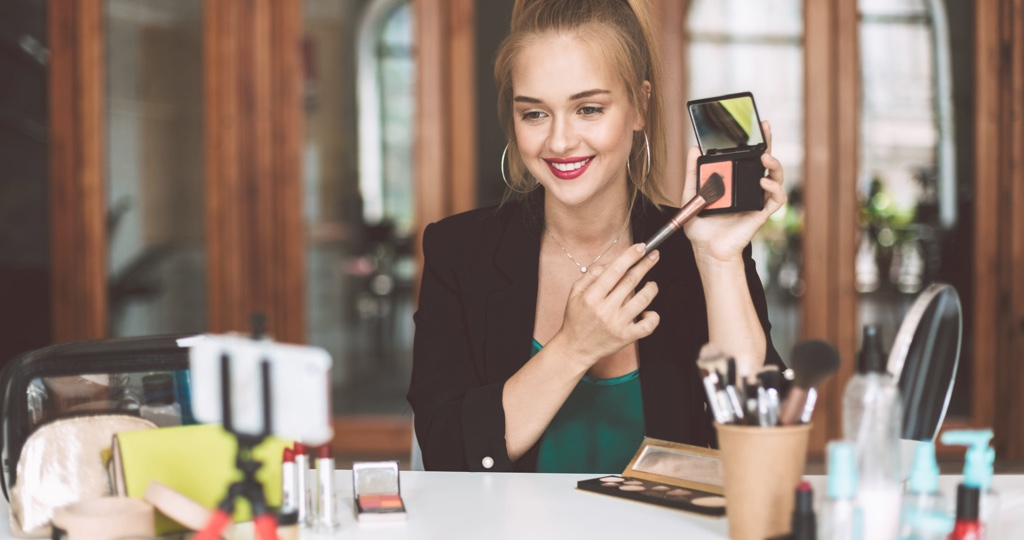
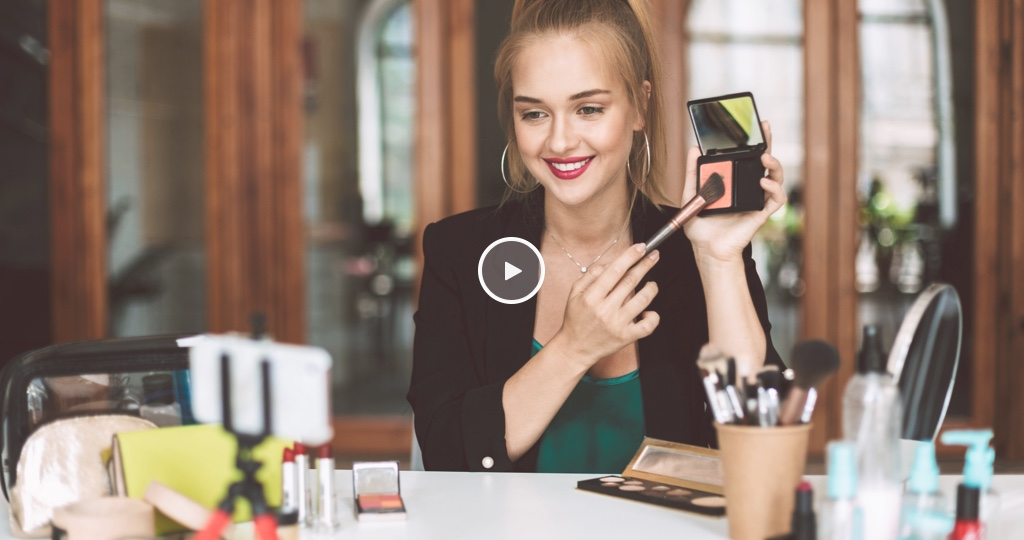
Added home page

Changed region(s): [[0.4688, 0.4444, 0.5312, 0.563]]

diff --git a/pages/index.js b/pages/index.js
@@ -5,13 +5,17 @@ import withLayout from '../lib/withLayout';
 import Screen01 from '../static/img/screen01.png'
 import Screen02 from '../static/img/screen02.png'
 import Screen03 from '../static/img/screen03.png'
+import ScreenHome from '../static/img/home.jpg'
 import Carousel from '../components/dataDisplay/others/carousel';
 import ContactUs from '../components/page/public/contactUs'
+import Btn from '../components/elements/btn'
 
 const styles = {
 	cardContainer: {
 		padding: '5rem 0',
-		// marginBottom: '3rem'
+	},
+	marginBottom: {
+		marginBottom: '3rem'
 	},
 	padding: {
 		padding: '1rem 2rem',
@@ -46,10 +50,24 @@ const styles = {
 		bottom: 0
 	},
 	testimonialTitle: {
-		fontSize: '2rem'
+		fontSize: '2rem',
+		marginBottom: '2rem'
 	},
 	carouselImg: {
 		width: '100%'
+	},
+	hover: {
+		position: 'absolute',
+		top: 0,
+		left: 0,
+		height: '100%'
+	},
+	homeTextContainer: {
+		transform: 'translateY(-50%)',
+		lineHeight: '2rem'
+	},
+	carousel: {
+		padding: '2rem 0 3.5rem'
 	}
 }
 
@@ -59,9 +77,22 @@ const Index = () => {
 
 	return (
 		<div>
+			<div style={styles.marginBottom}>
+				<Grid container item className='relative'>
+					<img src={ScreenHome} className='fullwidth' />
+					<Grid item container xs={12} sm={5} justify="center" alignItems="center" style={styles.hover}>
+						<Grid item xs={12} sm={12} className='text-center' style={styles.homeTextContainer}>
+							<h1 className='white-color'>Tirez le meilleur de l’influence marketing grâce à la vidéo</h1>
+							<Btn text="Démarrez" />
+						</Grid>
+					</Grid>
+				</Grid>
+			</div>
+			{/*  */}
 			<div className='text-center'>
-				<div className='home-block-padding' style={styles.padding}>
+				<div style={styles.padding}>
 					<h2 className='text-center'>Comment rendons-nous l’influence marketing scalable ?</h2>
+
 					<Grid container item style={styles.cardContainer}>
 						<Grid item xs={12} sm={6}>
 							<img src={Screen01} />
@@ -84,7 +115,7 @@ const Index = () => {
 			<div className='text-center'>
 				<Grid container item style={styles.cardContainer} className='light-gray-bg'>
 					<Grid item container xs={12} sm={6} justify="center" alignItems="center">
-						<Grid item container xs={12} sm={8} className='text-center'>
+						<Grid item xs={12} sm={8} className='text-center'>
 							<h2><span className='black-bordered-head'>Data</span> et Technologie</h2>
 							<div>
 								<p className='no-margin'>Search infleunceurs</p>
@@ -100,7 +131,7 @@ const Index = () => {
 				</Grid>
 			</div>
 			{/*  */}
-			<div className='home-block-padding' style={styles.padding} className='card-bg dot-pink reverse no-repeat text-center'>
+			<div style={styles.padding} className='card-bg circle-pink bottom no-repeat text-center'>
 				<h1 className='red-color'>Le format In-vidéo</h1>
 				<Grid container item style={styles.cardContainer}>
 					<Grid item xs={12} sm={6}>
@@ -120,7 +151,7 @@ const Index = () => {
 			{/*  */}
 			<div>
 				<Grid container item style={styles.cardContainer}>
-					<div className='lines-black no-repeat right card-bg fullwidth text-center'>
+					<div className='light-gray-bg lines-black flip right card-bg fullwidth text-center' style={styles.carousel}>
 
 						<h2 style={styles.testimonialTitle}><span className='full-bordered-head'>Client</span></h2>
 

diff --git a/static/css/index.css b/static/css/index.css
@@ -603,6 +603,9 @@ li > a:only-child:after { content: ''; }
 .fullwidth {
     width: 100%;
 }
+.white-color {
+    color: #fff;
+}
 .red-color {
     color: #F13F4B;
 }
@@ -621,7 +624,7 @@ li > a:only-child:after { content: ''; }
 .red-btn,
 button.submit {
     background-color: #F13F4B;
-    padding: .8rem;
+    padding: .8rem 2rem;
     color: white;
 }
 .red-btn {
@@ -865,6 +868,9 @@ button.submit {
 .card-bg.dots-white::before {
     background-image: url('../img/dots-white.png');
 }
+.card-bg.circle-pink::before {
+    background-image: url('../img/circle-pink.png');
+}
 .card-bg.top-dots-white::before {
     background-image: url('../img/top-dots-white.png');
 }
@@ -873,6 +879,9 @@ button.submit {
     background-image: url('../img/dots-pink.png'), url('../img/dots-pink-right.png');
     background-repeat: no-repeat;
     background-position: center;
+}
+.card-bg.flip::before {
+    transform: rotateX(180deg)
 }
 
 
